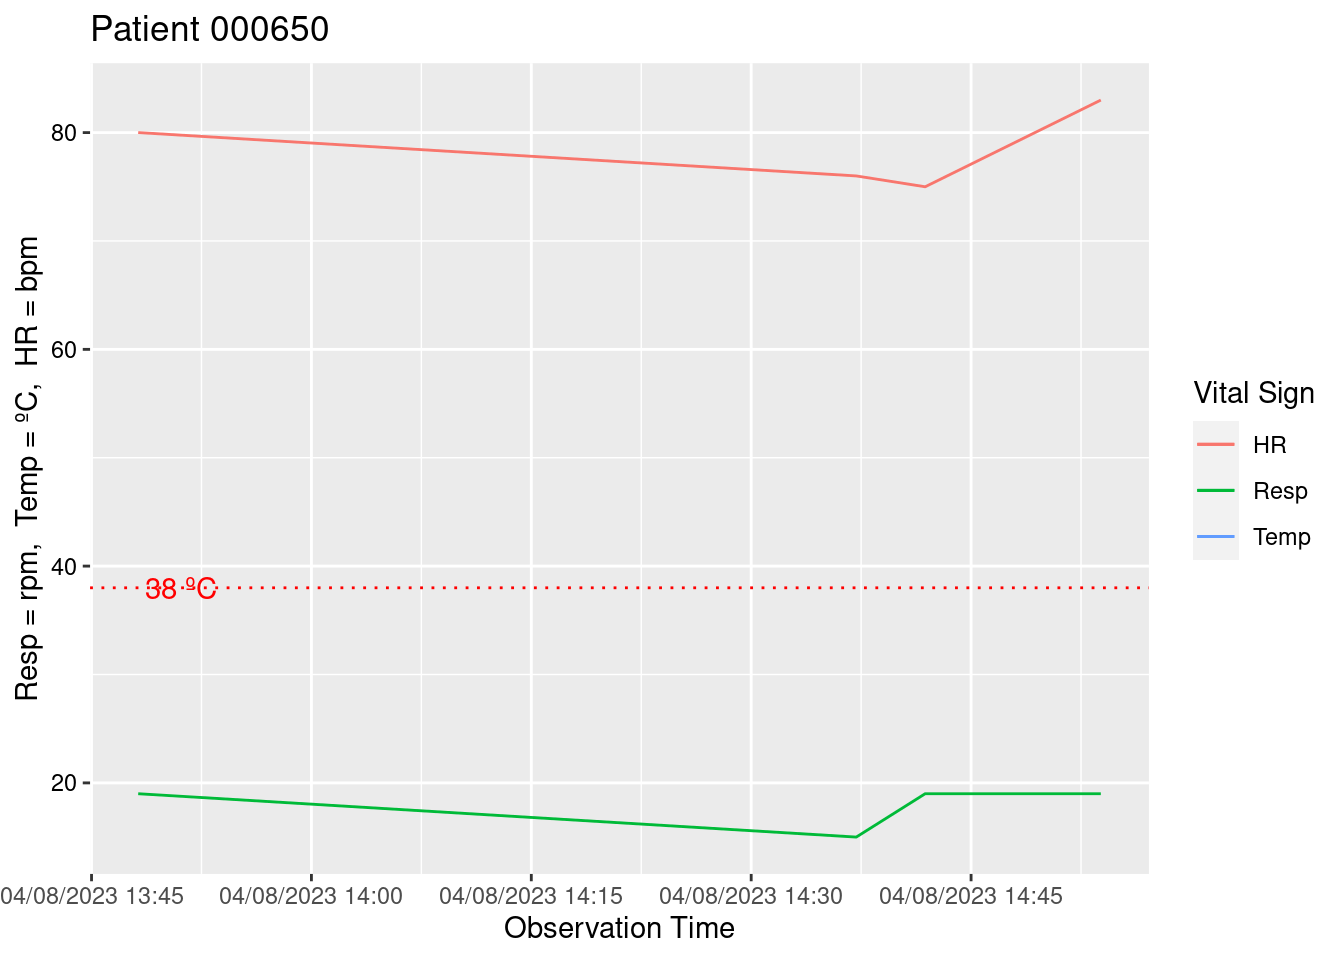
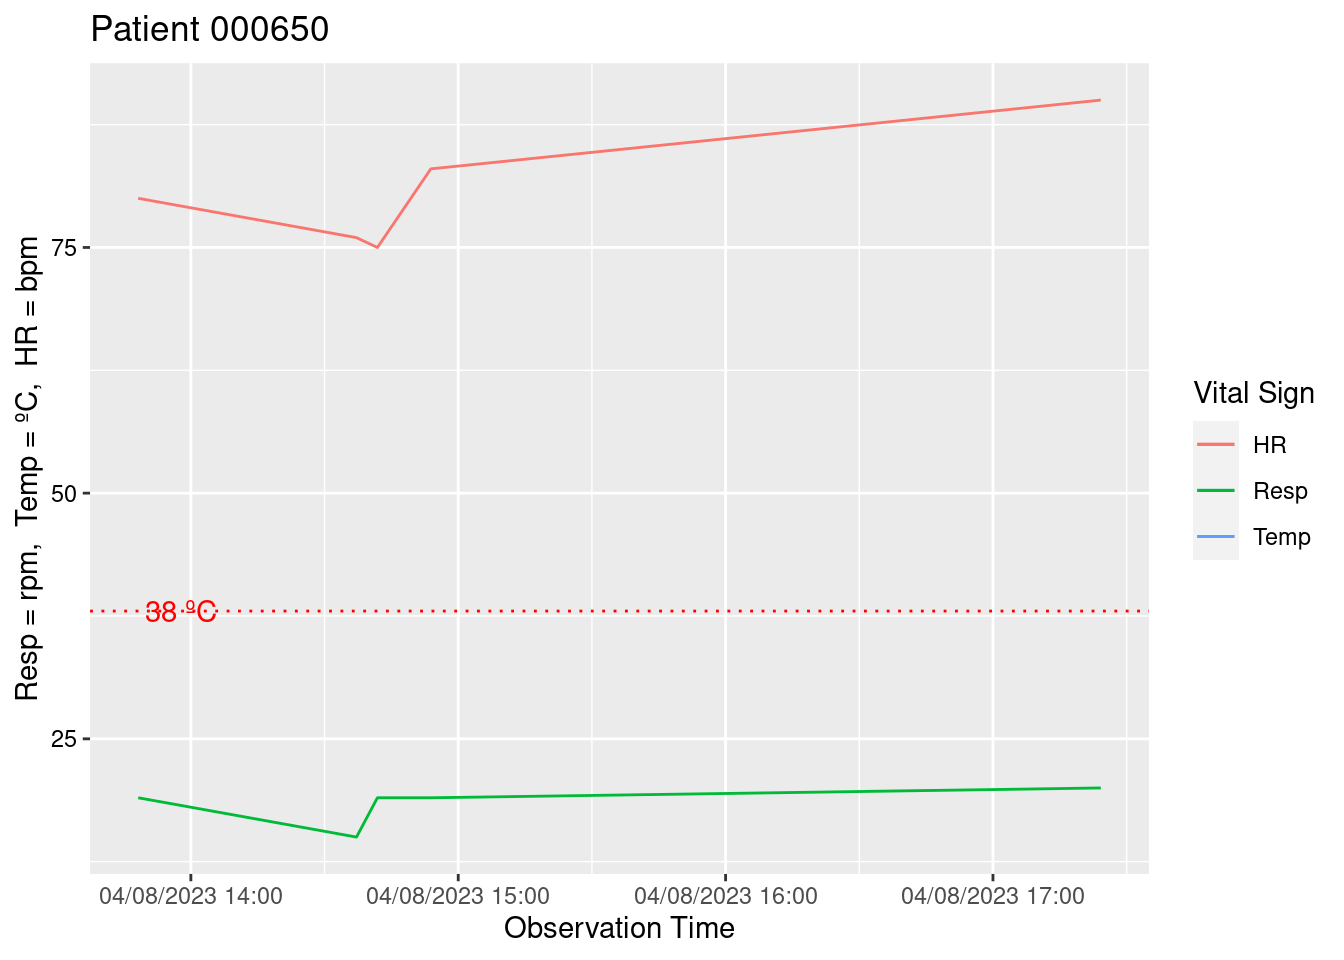
Updated report

diff --git a/Assignment-7.html b/Assignment-7.html
@@ -139,8 +139,8 @@ code span.wa { color: #60a0b0; font-weight: bold; font-style: italic; } /* Warni
 
 <section id="assignment-7" class="level1">
 <h1>Assignment 7</h1>
-<section id="date-and-time-2023-04-08-171020" class="level3">
-<h3 class="anchored" data-anchor-id="date-and-time-2023-04-08-171020">Date and Time: 2023-04-08 17:10:20</h3>
+<section id="date-and-time-2023-04-08-181316" class="level3">
+<h3 class="anchored" data-anchor-id="date-and-time-2023-04-08-181316">Date and Time: 2023-04-08 18:13:16</h3>
 <div class="cell">
 <div class="sourceCode cell-code" id="cb1"><pre class="sourceCode r code-with-copy"><code class="sourceCode r"><span id="cb1-1"><a href="#cb1-1" aria-hidden="true" tabindex="-1"></a><span class="fu">source</span>(<span class="st">"sepsis_monitor_functions.R"</span>)</span>
 <span id="cb1-2"><a href="#cb1-2" aria-hidden="true" tabindex="-1"></a></span>
@@ -185,9 +185,9 @@ code span.wa { color: #60a0b0; font-weight: bold; font-style: italic; } /* Warni
 <tbody>
 <tr class="odd">
 <td style="text-align: left;">000650</td>
-<td style="text-align: right;">83</td>
+<td style="text-align: right;">90</td>
 <td style="text-align: right;">NA</td>
-<td style="text-align: right;">19</td>
+<td style="text-align: right;">20</td>
 </tr>
 <tr class="even">
 <td style="text-align: left;">001288</td>
@@ -307,9 +307,9 @@ code span.wa { color: #60a0b0; font-weight: bold; font-style: italic; } /* Warni
 <tbody>
 <tr class="odd">
 <td style="text-align: left;">000650</td>
-<td style="text-align: right;">8</td>
+<td style="text-align: right;">7</td>
 <td style="text-align: right;">NA</td>
-<td style="text-align: right;">0</td>
+<td style="text-align: right;">1</td>
 </tr>
 <tr class="even">
 <td style="text-align: left;">001288</td>
